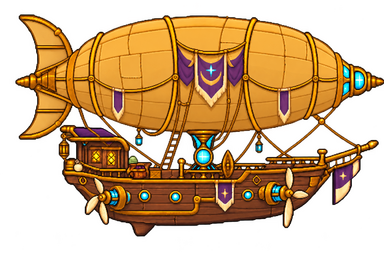
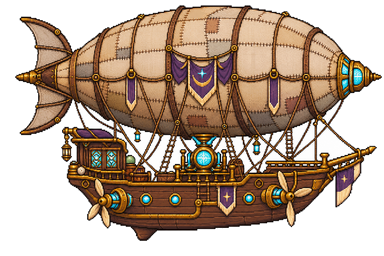
alpha28.0.4.6: finalize airship design and spin propellers

diff --git a/src/Cardcha/Services/AirshipFoundationService.cs b/src/Cardcha/Services/AirshipFoundationService.cs
@@ -47,6 +47,7 @@ internal sealed class AirshipFoundationService
     private const float FlybyTiltRadians = 0.028f;
     private const float CutsceneTiltRadians = 0.045f;
     private const float CutsceneScalePulse = 0.018f;
+    private const float PropellerSpinRadiansPerSecond = 20f;
 
     private readonly IModHelper Helper;
     private readonly IMonitor Monitor;
@@ -1029,6 +1030,15 @@ internal sealed class AirshipFoundationService
                 rotation,
                 verticalScale))
         {
+            this.DrawAirshipPropellerMotion(
+                batch,
+                p,
+                230f,
+                SpriteEffects.None,
+                rotation,
+                verticalScale,
+                spinDirection: 1f
+            );
             return;
         }
 
@@ -1230,14 +1240,28 @@ internal sealed class AirshipFoundationService
         // The eased travel, bob, tilt and tiny breathing scale make departure and return feel
         // like a suspended vessel instead of a static overlay. The same motion runs on both
         // directions; only the travel direction and sprite flip are reversed.
-        if (!this.TryDrawAirshipSprite(
+        bool spriteDrawn = this.TryDrawAirshipSprite(
+            batch,
+            new Vector2(shipX, shipY),
+            targetWidth,
+            Color.White * 0.98f,
+            directionEffect,
+            rotation,
+            verticalScale
+        );
+        if (spriteDrawn)
+        {
+            this.DrawAirshipPropellerMotion(
                 batch,
                 new Vector2(shipX, shipY),
                 targetWidth,
-                Color.White * 0.98f,
                 directionEffect,
                 rotation,
-                verticalScale))
+                verticalScale,
+                spinDirection: direction
+            );
+        }
+        else
         {
             this.DrawCinematicAirship(batch, new Vector2(shipX, shipY), 1.15f);
         }
@@ -1293,6 +1317,116 @@ internal sealed class AirshipFoundationService
             layerDepth: 1f
         );
         return true;
+    }
+
+    private void DrawAirshipPropellerMotion(
+        SpriteBatch batch,
+        Vector2 spriteCenter,
+        float targetWidth,
+        SpriteEffects effects,
+        float rotation,
+        float verticalScale,
+        float spinDirection)
+    {
+        Texture2D? sprite = this.GetAirshipVisual();
+        if (sprite is null || targetWidth <= 0f)
+            return;
+
+        float scale = targetWidth / sprite.Width;
+        bool mirrored = (effects & SpriteEffects.FlipHorizontally) != SpriteEffects.None;
+        float spin = (float)(Environment.TickCount64 / 1000.0)
+            * PropellerSpinRadiansPerSecond
+            * spinDirection;
+
+        Vector2 left = TransformSpriteOffset(
+            new Vector2(-88f * scale, 79f * scale),
+            spriteCenter,
+            rotation,
+            verticalScale,
+            mirrored
+        );
+        Vector2 right = TransformSpriteOffset(
+            new Vector2(88f * scale, 79f * scale),
+            spriteCenter,
+            rotation,
+            verticalScale,
+            mirrored
+        );
+
+        DrawAnimatedPropeller(batch, left, scale, spin);
+        DrawAnimatedPropeller(batch, right, scale, -spin);
+    }
+
+    private static Vector2 TransformSpriteOffset(
+        Vector2 offset,
+        Vector2 center,
+        float rotation,
+        float verticalScale,
+        bool mirrored)
+    {
+        if (mirrored)
+            offset.X = -offset.X;
+
+        offset.Y *= verticalScale;
+        float cos = MathF.Cos(rotation);
+        float sin = MathF.Sin(rotation);
+        return center + new Vector2(
+            offset.X * cos - offset.Y * sin,
+            offset.X * sin + offset.Y * cos
+        );
+    }
+
+    private static void DrawAnimatedPropeller(
+        SpriteBatch batch,
+        Vector2 center,
+        float scale,
+        float spin)
+    {
+        Color outline = new Color(49, 33, 25) * 0.78f;
+        Color blade = new Color(247, 231, 196) * 0.88f;
+        float length = 17f * scale;
+        float outlineWidth = Math.Max(2f, 6f * scale);
+        float bladeWidth = Math.Max(1.5f, 4f * scale);
+
+        for (int i = 0; i < 3; i++)
+        {
+            float angle = spin + i * MathHelper.TwoPi / 3f;
+            DrawRotorStroke(batch, center, angle, length, outlineWidth, outline);
+            DrawRotorStroke(batch, center, angle, length * 0.90f, bladeWidth, blade);
+        }
+
+        int hubRadius = Math.Max(2, (int)(4f * scale));
+        DrawRect(
+            batch,
+            new Rectangle(
+                (int)center.X - hubRadius,
+                (int)center.Y - hubRadius,
+                hubRadius * 2 + 1,
+                hubRadius * 2 + 1
+            ),
+            new Color(191, 128, 42) * 0.94f
+        );
+    }
+
+    private static void DrawRotorStroke(
+        SpriteBatch batch,
+        Vector2 center,
+        float angle,
+        float length,
+        float width,
+        Color color)
+    {
+        batch.Draw(
+            Game1.staminaRect,
+            center,
+            sourceRectangle: null,
+            color: color,
+            rotation: angle,
+            origin: new Vector2(0f, 0.5f),
+            scale: new Vector2(length, width),
+            effects: SpriteEffects.None,
+            layerDepth: 1f
+        );
     }
 
     private Texture2D? GetAirshipVisual()

diff --git a/src/Cardcha/ModEntry.cs b/src/Cardcha/ModEntry.cs
@@ -203,7 +203,7 @@ internal sealed class ModEntry : Mod
         MimiProfileMenuPatch.Apply(harmony);
 
         this.Monitor.Log(
-            $"Cardcha! v0.3.0-alpha.28.0.4.5 AIRSHIP FLIGHT ANIMATION TEST with {this.Cards.All.Count} cards. The cardboard is now combat-capable. This seems unsafe.",
+            $"Cardcha! v0.3.0-alpha.28.0.4.6 AIRSHIP FINAL DESIGN ANIMATION TEST with {this.Cards.All.Count} cards. The cardboard is now combat-capable. This seems unsafe.",
             LogLevel.Info
         );
     }
@@ -911,7 +911,7 @@ internal sealed class ModEntry : Mod
     private void CommandVersion(string command, string[] args)
     {
         this.Monitor.Log(
-            "Cardcha! v0.3.0-alpha.28.0.4.5 AIRSHIP FLIGHT ANIMATION TEST",
+            "Cardcha! v0.3.0-alpha.28.0.4.6 AIRSHIP FINAL DESIGN ANIMATION TEST",
             LogLevel.Alert
         );
     }
